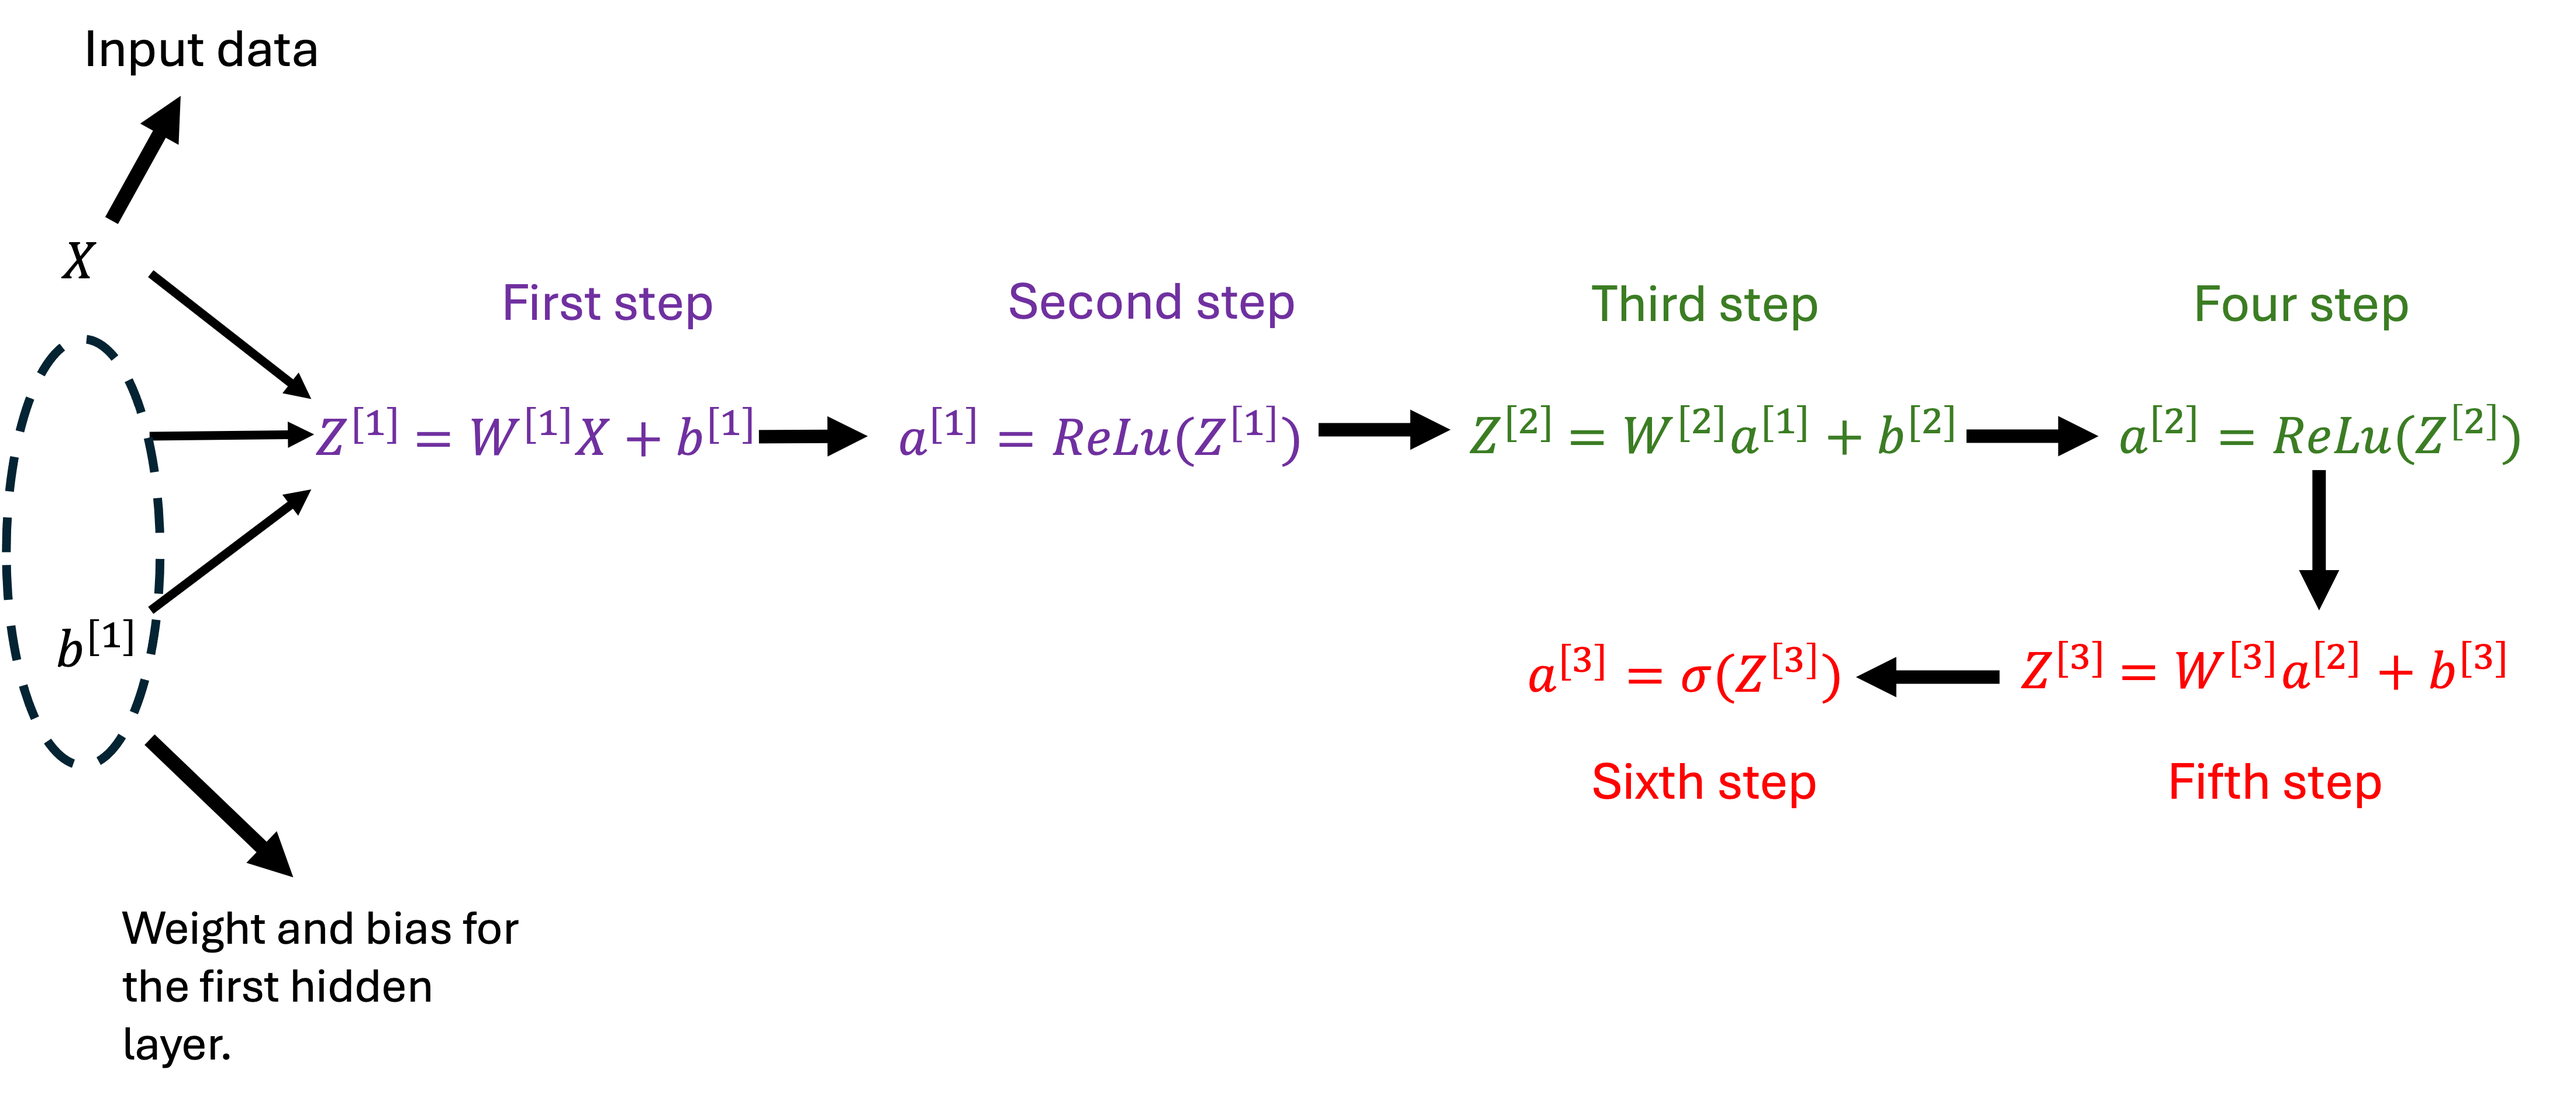
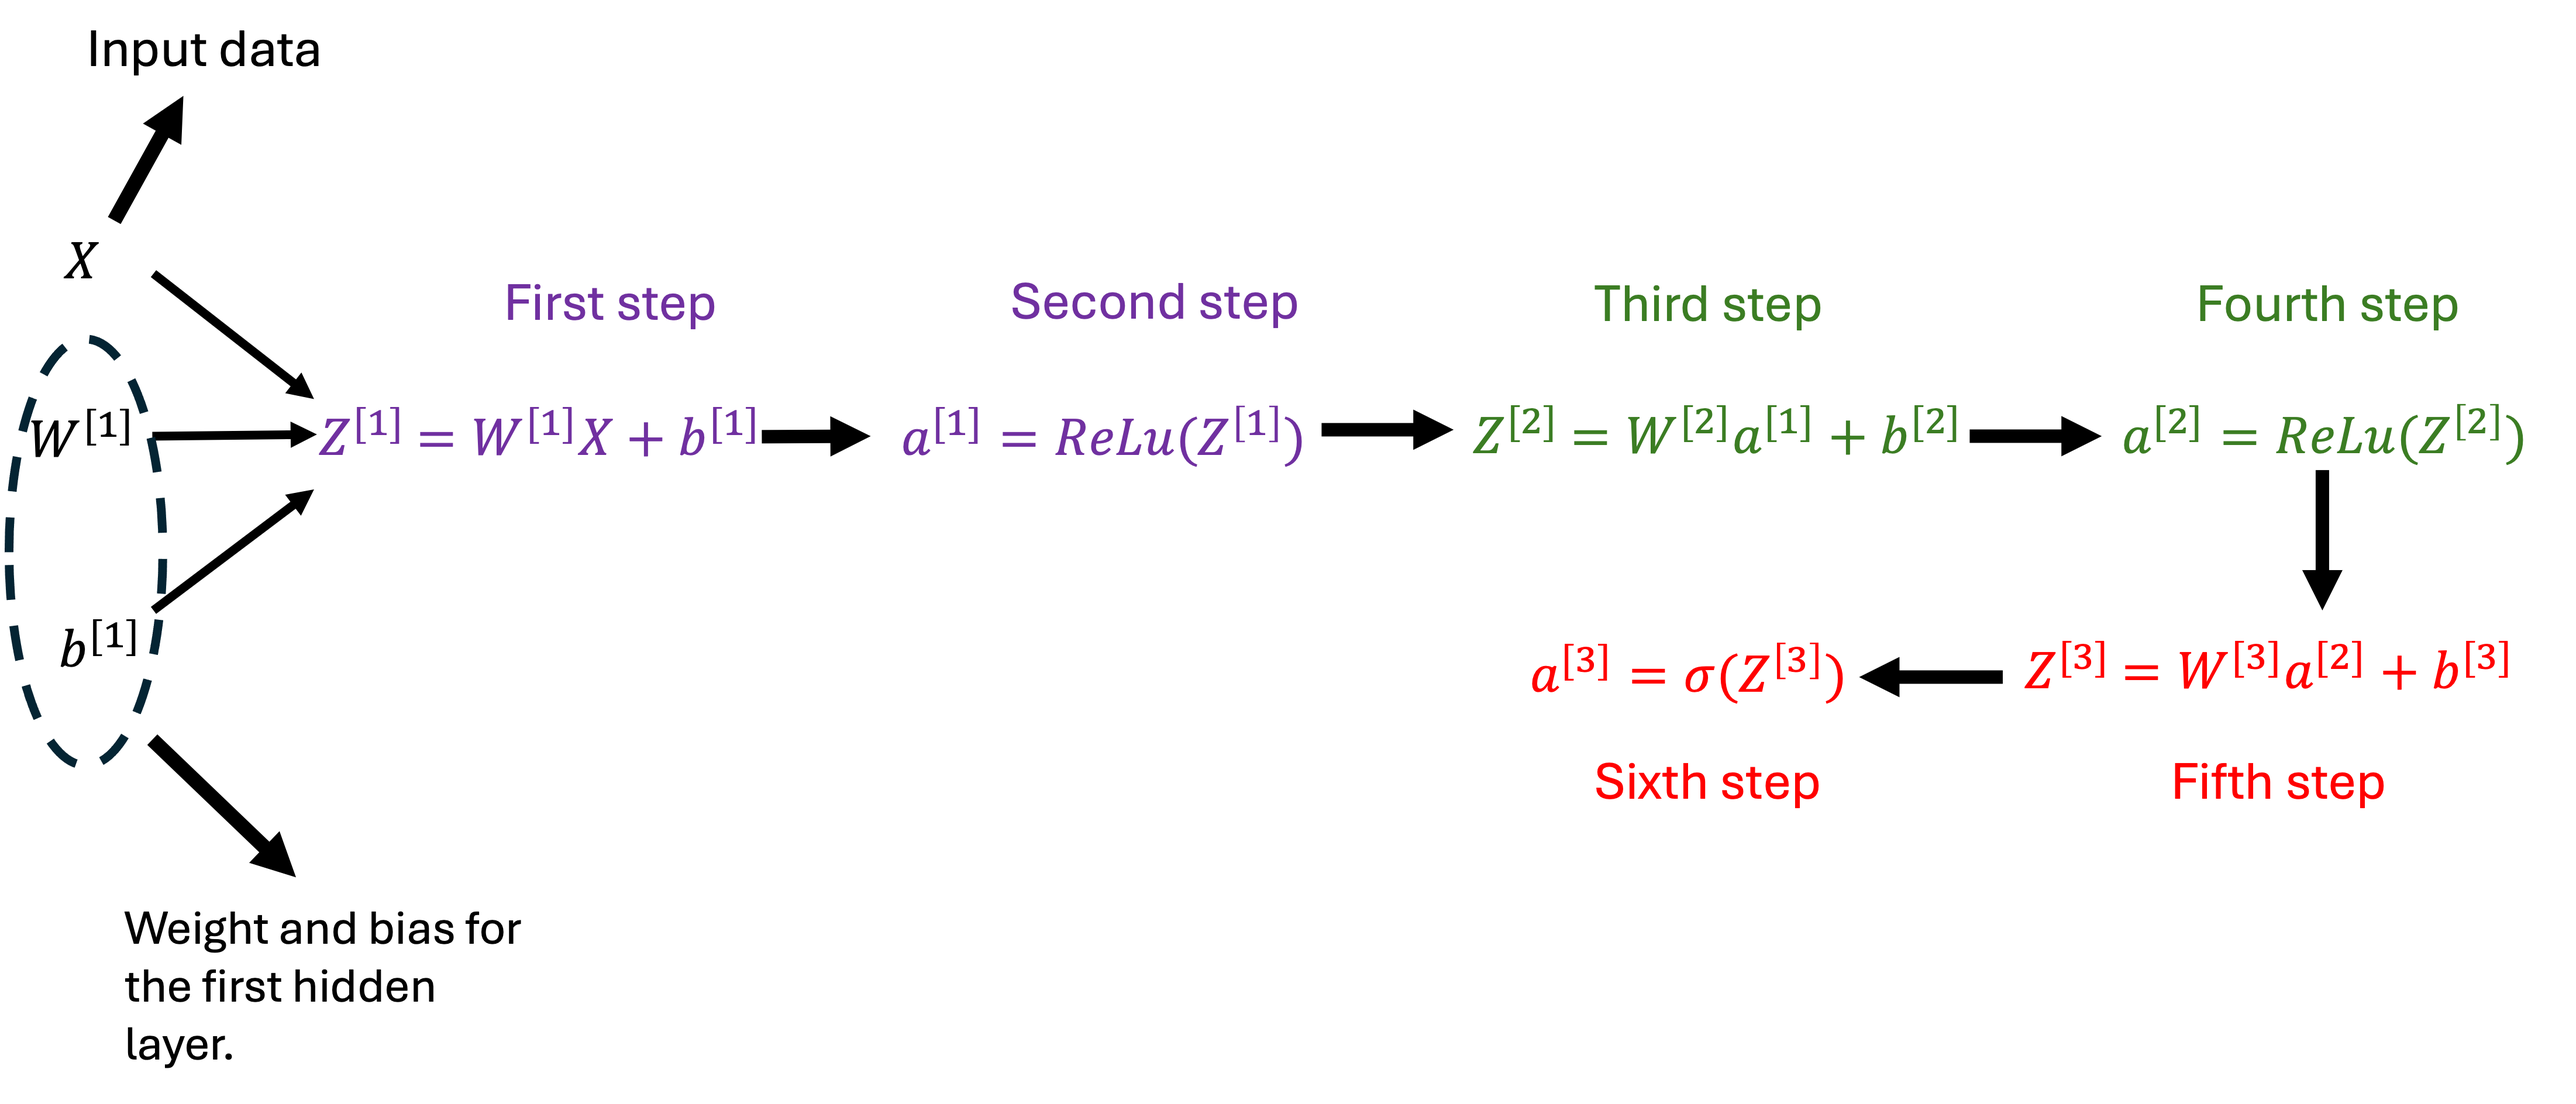
Add write up for third and fourth step

diff --git a/_blogs/simple-three-layer-neural-network-cuda/index.md b/_blogs/simple-three-layer-neural-network-cuda/index.md
@@ -22,9 +22,9 @@ Forward propagation is a process where the neural network takes an input to prod
 {% include image-gallery.html images="forward_propagation.png" height="400" %} 
 <br> 
  
-### First step
+### First Layer (First step).
 
-The first step involves matrix multiplication between the weights and input data and then the addition of the bias. Row major storage is used to weight and bias in GPU memory while column major storage is used to store the input data in GPU memory because these will allow global coalescing. The column major storage is used to store the matrix mutiplication product in GPU memory because this will allow global coalescing in the third step.  
+The first step involves matrix multiplication between First layer weights and input data and then the addition of the First Layer bias. Row major storage is used to weight and bias in GPU memory while column major storage is used to store the input data in GPU memory because these will allow global coalescing. The column major storage is used to store the matrix mutiplication product in GPU memory because this will allow global coalescing in the third step. The first step result is left in the GPU memory to be used by the second step.   
 ### matrix representation of the first step
 {% include image-gallery.html images="step_1_matrix_multiply.png" height="400" %} 
 ```cuda
@@ -48,7 +48,7 @@ __global__  void matrixMulAddRowBasedARR2(float* weightBias, float* xData,  floa
 
 }
 ```
-### second step
+### First layer (second step).
 
 The second step involves applying the ReLu function on the product of the first step.
 ### matrix representation of the second step.
@@ -65,9 +65,21 @@ __global__  void matrixReLu(float* activation, int actLength) {
 }
 
 ```
-### Second layer
+### Second layer (Third step).
 
-### Third layer
+Third step operation is the same as the first step but it involves matrix mutiplication of second layer weights with the output of Layer one (second step) and then addition of the second layer bias. The third step uses the same kernel function as the first step. 
+### matrix representation of the third step.
+{% include image-gallery.html images="step_3_matrix_multiply.png" height="400" %} 
+<br>  
+### Second layer (four step).
+
+Fourth step operation is the same as the second step, in which ReLu function is applied on the third step result. The fourth step uses the same kernel function as second step.  
+### matrix representation of the fourth step.
+{% include image-gallery.html images="step_4_ReLu_function.png" height="400" %} 
+<br>  
+### Third layer (fifth step).
+### Third layer (sixth step).
+
 
 ## Back propagation
 
